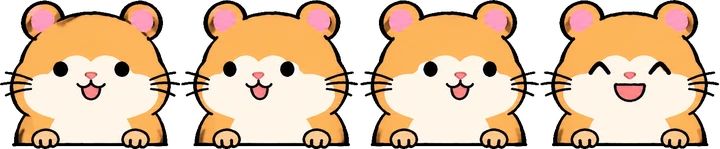
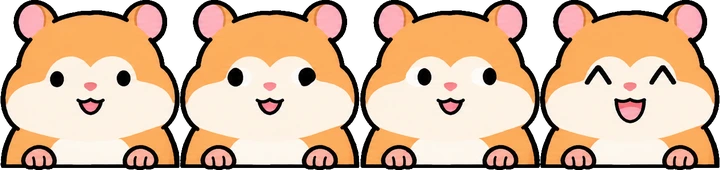
Preview: hamster without whiskers
Claude-Session: https://claude.ai/code/session_015vAgjDeRSw6soRRSRcNB1f

diff --git a/new.html b/new.html
@@ -2770,7 +2770,7 @@ img[loading=lazy]{content-visibility:visible}
 .zq-sw:hover .zq-ham,.zq-sw .zq-ham.watch{transform:translateY(0)}
 .zq-sw .zq-ham.dive{animation:zqDv2 1s cubic-bezier(.5,0,.3,1)}
 @keyframes zqDv2{0%{transform:translateY(0)}25%{transform:translateY(-16px)}55%{transform:translateY(70px)}80%{transform:translateY(70px)}100%{transform:translateY(18px)}}
-.zq-sw .zq-spr{display:block;width:84px!important;aspect-ratio:180/149;background-size:400% 100%!important}
+.zq-sw .zq-spr{display:block;width:84px!important;aspect-ratio:180/170;background-size:400% 100%!important}
 @media (max-width:700px){.zq-sw .zq-ham{right:80px!important;width:64px!important}.zq-sw .zq-spr{width:64px!important}}
 /* search press + suggestions */
 .zq-s button{border-radius:999px;transition:transform .12s,background .2s}
@@ -2880,7 +2880,7 @@ img[loading=lazy]{content-visibility:visible}
 
 /* ===== v50 ===== */
 /* hamster: only the eyes show until you point at the search */
-.zq-sw .zq-ham,.zq-sw .zq-ham.up{bottom:100%!important;width:76px!important;right:128px!important;transform:translateY(31px)!important;transition:transform .5s cubic-bezier(.3,1.6,.5,1)!important}
+.zq-sw .zq-ham,.zq-sw .zq-ham.up{bottom:100%!important;width:76px!important;right:128px!important;transform:translateY(36px)!important;transition:transform .5s cubic-bezier(.3,1.6,.5,1)!important}
 .zq-sw .zq-spr{width:76px!important}
 .zq-sw:hover .zq-ham.up,.zq-sw .zq-ham.up.watch,.zq-sw:focus-within .zq-ham.up{transform:translateY(6px)!important}
 .zq-sw .zq-ham.dive{animation:zqDv3 1s cubic-bezier(.5,0,.3,1)!important}
